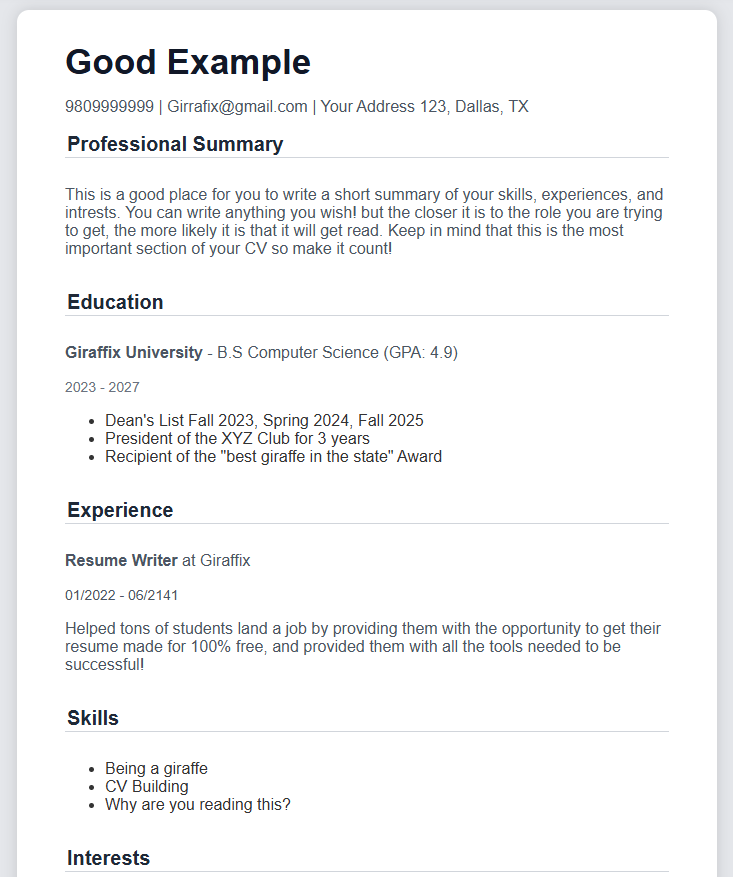
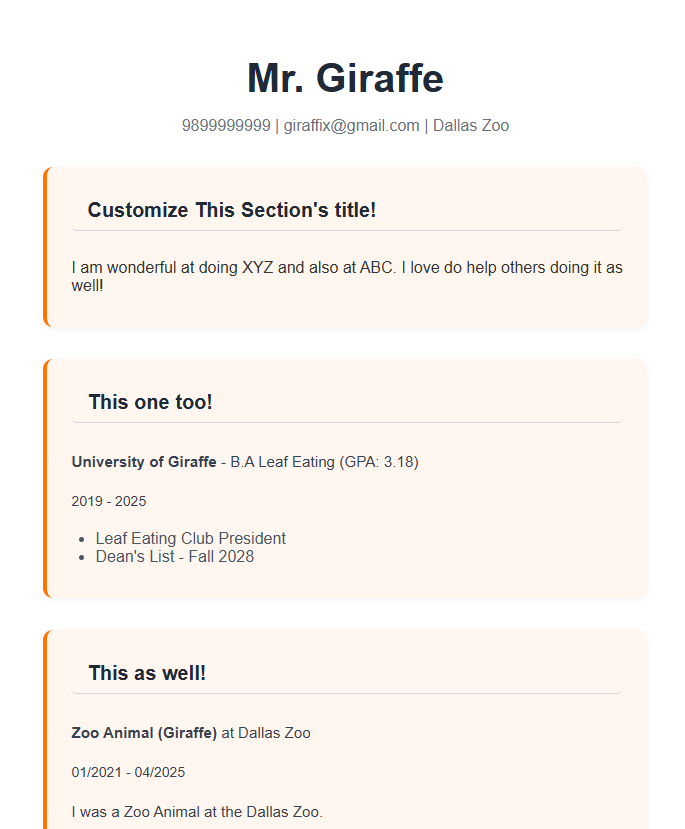
New Template Design
-Customizable section titles.

Changed region(s): [[0.0613, 0.392, 0.9197, 1.0], [0.0, 0.0, 1.0, 1.0], [0.0613, 0.2111, 0.9197, 0.392]]

diff --git a/templates/template3/index.html b/templates/template3/index.html
@@ -11,52 +11,54 @@
 
 <body>
 
-    <nav class="navbar">
-        <div class="logo-container">
-          <img src="../../assets/girrafe_logo.png" alt="Giraffe Resume Logo" class="logo" />
-        </div>
-        <div class="nav-links">
-          <a href="../../index.html">Home</a>
-          <a href="../../templates.html">Templates</a>
-          <a href="#">FAQ</a>
-          <a href="#">Log in</a>
-        </div>
-      </nav>
-      
+  <nav class="navbar">
+    <div class="logo-container">
+      <img src="../../assets/girrafe_logo.png" alt="Giraffe Resume Logo" class="logo" />
+    </div>
+    <div class="nav-links">
+      <a href="../../index.html">Home</a>
+      <a href="../../templates.html">Templates</a>
+      <a href="#">FAQ</a>
+      <a href="#">Log in</a>
+    </div>
+  </nav>
+  
   <div class="editor-container">
     <!-- Resume Preview -->
     <div class="resume-preview">
       <div class="resume-paper">
         <div class="resume">
-          <h1 id="name">Your Name</h1>
-          <p id="contact">Phone | Email | Address</p>
+          <div class="resume-header">
+            <h1 id="name">Your Name</h1>
+            <p id="contact">Phone | Email | Address</p>
+          </div>
 
-          <section>
+          <section class="resume-section">
             <input type="text" class="section-title" value="Professional Summary" />
             <p id="summary">A passionate and detail-oriented professional...</p>
           </section>
 
-          <section>
+          <section class="resume-section">
             <input type="text" class="section-title" value="Education" />
             <div id="education-section"></div>
           </section>
 
-          <section>
+          <section class="resume-section">
             <input type="text" class="section-title" value="Experience" />
             <div id="experience-section"></div>
           </section>
 
-          <section>
+          <section class="resume-section">
             <input type="text" class="section-title" value="Skills" />
             <ul id="skills-list"></ul>
           </section>
 
-          <section>
+          <section class="resume-section">
             <input type="text" class="section-title" value="Interests" />
             <ul id="interests-list"></ul>
           </section>
 
-          <section>
+          <section class="resume-section">
             <input type="text" class="section-title" value="Personal Projects" />
             <div id="projects-section"></div>
           </section>
@@ -67,7 +69,6 @@
     <!-- Form Side -->
     <div class="form-area">
       <form id="resume-form">
-
         <div class="form-sections-wrapper">
           
           <!-- SECTION 1: Basics -->
@@ -82,76 +83,124 @@
                 <label for="input-name">Phone Number</label>
                 <input type="text" id="input-phone" class="input-" />
               </div>
-              <div class="form-group half"><label for="input-email">Email</label><input type="email" id="input-email" /></div>
+              <div class="form-group half">
+                <label for="input-email">Email</label>
+                <input type="email" id="input-email" />
+              </div>
             </div>
-            <div class="form-group"><label for="input-address">Address</label><input type="text" id="input-address" /></div>
+            <div class="form-group">
+              <label for="input-address">Address</label>
+              <input type="text" id="input-address" />
+            </div>
           </div>
-      
+
           <!-- SECTION 2: Summary -->
           <div class="form-section">
             <h2>Professional Summary</h2>
-            <div class="form-group"><label for="input-summary">Summary</label><textarea id="input-summary" placeholder="Write a short paragraph about yourself..." rows="5"></textarea></div>
+            <div class="form-group">
+              <label for="input-summary">Summary</label>
+              <textarea id="input-summary" placeholder="Write a short paragraph about yourself..." rows="5"></textarea>
+            </div>
           </div>
-      
+
           <!-- SECTION 3: Education -->
           <div class="form-section">
             <h2>Education</h2>
-            <div class="form-group"><label for="edu-school">School</label><input type="text" id="edu-school" placeholder="University of XYZ" /></div>
-            <div class="form-grid-2">
-              <div class="form-group half"><label for="edu-degree">Degree</label><input type="text" id="edu-degree" placeholder="B.Sc. Computer Science" /></div>
-              <div class="form-group half"><label for="edu-gpa">GPA</label><input type="text" id="edu-gpa" placeholder="e.g. 3.8" /></div>
+            <div class="form-group">
+              <label for="edu-school">School</label>
+              <input type="text" id="edu-school" placeholder="University of XYZ" />
             </div>
             <div class="form-grid-2">
-              <div class="form-group half"><label for="edu-start">Start Date</label><input type="month" id="edu-start" /></div>
-              <div class="form-group half"><label for="edu-end">End Date</label><input type="month" id="edu-end" /></div>
+              <div class="form-group half">
+                <label for="edu-degree">Degree</label>
+                <input type="text" id="edu-degree" placeholder="B.Sc. Computer Science" />
+              </div>
+              <div class="form-group half">
+                <label for="edu-gpa">GPA</label>
+                <input type="text" id="edu-gpa" placeholder="e.g. 3.8" />
+              </div>
+            </div>
+            <div class="form-grid-2">
+              <div class="form-group half">
+                <label for="edu-start">Start Date</label>
+                <input type="month" id="edu-start" />
+              </div>
+              <div class="form-group half">
+                <label for="edu-end">End Date</label>
+                <input type="month" id="edu-end" />
+              </div>
             </div>
           </div>
-      
+
           <!-- SECTION 4: Experience -->
           <div class="form-section">
             <h2>Experience</h2>
-            <div class="form-group"><label for="exp-title">Job Title</label><input type="text" id="exp-title" /></div>
-            <div class="form-group"><label for="exp-company">Company</label><input type="text" id="exp-company" /></div>
-            <div class="form-grid-2">
-              <div class="form-group half"><label for="exp-start">Start Date</label><input type="month" id="exp-start" /></div>
-              <div class="form-group half"><label for="exp-end">End Date</label><input type="month" id="exp-end" /></div>
+            <div class="form-group">
+              <label for="exp-title">Job Title</label>
+              <input type="text" id="exp-title" />
             </div>
-            <div class="form-group"><label for="exp-desc">Description</label><textarea id="exp-desc" rows="4" placeholder="Describe your responsibilities..."></textarea></div>
+            <div class="form-group">
+              <label for="exp-company">Company</label>
+              <input type="text" id="exp-company" />
+            </div>
+            <div class="form-grid-2">
+              <div class="form-group half">
+                <label for="exp-start">Start Date</label>
+                <input type="month" id="exp-start" />
+              </div>
+              <div class="form-group half">
+                <label for="exp-end">End Date</label>
+                <input type="month" id="exp-end" />
+              </div>
+            </div>
+            <div class="form-group">
+              <label for="exp-desc">Description</label>
+              <textarea id="exp-desc" rows="4" placeholder="Describe your responsibilities..."></textarea>
+            </div>
           </div>
-      
+
           <!-- SECTION 5: Skills & Interests -->
           <div class="form-section">
             <h2>Skills & Interests</h2>
-            <div class="form-group"><label for="skills-input">Skills</label><input type="text" id="skills-input" placeholder="e.g., JavaScript, React, CSS" /></div>
-            <div class="form-group"><label for="interests-input">Interests</label><input type="text" id="interests-input" placeholder="e.g., Hiking, Chess, Photography" /></div>
+            <div class="form-group">
+              <label for="skills-input">Skills</label>
+              <input type="text" id="skills-input" placeholder="e.g., JavaScript, React, CSS" />
+            </div>
+            <div class="form-group">
+              <label for="interests-input">Interests</label>
+              <input type="text" id="interests-input" placeholder="e.g., Hiking, Chess, Photography" />
+            </div>
           </div>
-      
+
           <!-- SECTION 6: Projects -->
           <div class="form-section">
             <h2>Projects</h2>
-            <div class="form-group"><label for="proj-title">Project Title</label><input type="text" id="proj-title" placeholder="Portfolio Website" /></div>
-            <div class="form-group"><label for="proj-desc">Description</label><textarea id="proj-desc" placeholder="Built a personal portfolio with HTML/CSS/JS" rows="4"></textarea></div>
+            <div class="form-group">
+              <label for="proj-title">Project Title</label>
+              <input type="text" id="proj-title" placeholder="Portfolio Website" />
+            </div>
+            <div class="form-group">
+              <label for="proj-desc">Description</label>
+              <textarea id="proj-desc" placeholder="Built a personal portfolio with HTML/CSS/JS" rows="4"></textarea>
+            </div>
           </div>
-      
+
         </div>
-      
+
         <div class="nav-buttons">
           <button type="button" id="prev-btn">Previous Section</button>
           <button type="button" id="next-btn">Next Section</button>
         </div>
 
         <!-- FINAL: Download Resume -->
-      <div class="form-section">
-        <h2>All Done!</h2>
-        <p style="margin-bottom: 1rem;">You can now download your resume.</p>
-        <button type="button" id="download-btn" class="cta-button">Download PDF</button>
-        
-        <button type="button" id="download-giraffe-btn" class="cta-button">Save for Later (.giraffe)</button>
+        <div class="form-section">
+          <h2>All Done!</h2>
+          <p style="margin-bottom: 1rem;">You can now download your resume.</p>
+          <button type="button" id="download-btn" class="cta-button">Download PDF</button>
+          <button type="button" id="download-giraffe-btn" class="cta-button">Save for Later (.giraffe)</button>
+        </div>
 
-      </div>
-      
       </form>
-      
     </div>
   </div>
 

diff --git a/templates/template3/style.css b/templates/template3/style.css
@@ -41,39 +41,65 @@ body {
   box-shadow: 0 0 15px rgba(0,0,0,0.15);
 }
 
-.resume h1 {
-  font-size: 2.2rem;
-  font-weight: 700;
-  margin: 0;
-  color: #111827;
+/* NEW RESUME TEMPLATE STYLE */
+.resume {
+  font-family: 'Poppins', sans-serif;
 }
 
-.resume p {
-  color: #4b5563;
-  margin-bottom: 1rem;
-}
-
-.resume section {
+.resume-header {
+  text-align: center;
   margin-bottom: 2rem;
 }
 
-.resume .section-title {
-  font-size: 1.25rem;
-  font-weight: 600;
+.resume-header h1 {
+  font-size: 2.5rem;
+  font-weight: 700;
+  margin-bottom: 0.25rem;
   color: #1f2937;
-  border-bottom: 2px solid #e5e7eb;
-  margin-bottom: 1rem;
 }
 
-.resume .education-entry,
-.resume .experience-entry,
-.resume .project-entry {
-  margin-bottom: 1.2rem;
-}
-
-.resume .education-entry p small {
+.resume-header p {
+  font-size: 1rem;
   color: #6b7280;
-  font-size: 0.85rem;
+}
+
+.resume-section {
+  border-left: 4px solid #ff7301;
+  background-color: #fff6ef;
+  padding: 1.5rem 1.5rem 1rem 1.5rem;
+  margin-top: 2rem;
+  border-radius: 10px;
+  box-shadow: 0 2px 6px rgba(0, 0, 0, 0.05);
+}
+
+.resume .section-title {
+  background-color: #ff7301;
+  color: white;
+  padding: 0.5rem 1rem;
+  font-size: 1.1rem;
+  border: none;
+  border-radius: 6px;
+  margin-bottom: 1rem;
+  width: fit-content;
+}
+
+.resume .section-title:focus {
+  background-color: #e55d00;
+  outline: none;
+}
+
+.resume .education-entry p,
+.resume .experience-entry p,
+.resume .project-entry p {
+  line-height: 1.6;
+  font-size: 0.95rem;
+  color: #374151;
+}
+
+.resume ul {
+  padding-left: 1.5rem;
+  list-style-type: disc;
+  color: #4b5563;
 }
 
 /* FORM SIDE */
@@ -141,11 +167,6 @@ body {
   border-bottom: 1px solid #d1d5db;
   margin-bottom: 0.75rem;
   background-color: transparent;
-}
-
-.resume input.section-title:focus {
-  outline: none;
-  border-color: #ff7301;
 }
 
 /* CTA BUTTON */
@@ -309,3 +330,5 @@ body {
   width: 100%;
   max-width: 100%;
 }
+
+
